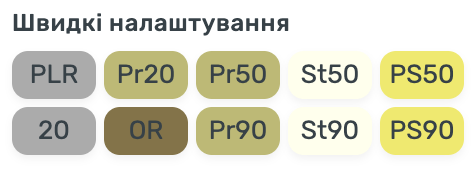
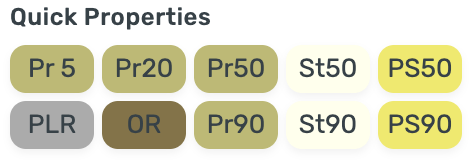
Changed button's preset

diff --git a/WME-E95.user.js b/WME-E95.user.js
@@ -91,23 +91,26 @@
   //   e.g. flags.tunnel | flags.headlights
   const FLAGS = {
     tunnel: 0b00000001,
-    // ???     : 0b00000010,
-    // ???     : 0b00000100,
-    // ???     : 0b00001000,
+    // ???
+    // a     : 0b00000010,
+    // b     : 0b00000100,
+    // c     : 0b00001000,
     unpaved: 0b00010000,
     headlights: 0b00100000,
   }
   // Buttons:
   //   title - for buttons
   //   shortcut - keys for shortcuts, by default is Alt + (1..9)
-  //   detectCity - try to detect city name by closures segments
-  //   clearCity - clear city name
+  //   options:
+  //    - detectCity - try to detect the city name by closures segments
+  //    - clearCity - clear the city name
+  //    - clearStreet - clear the street name
   //   attributes - native settings for model object
   // TODO:
   //   – check permissions for user level lower than 2
   const BUTTONS = {
     A: {
-      title: 'PLR',
+      title: 'Pr 5',
       shortcut: 'A+1',
       options: {
         detectCity: true,
@@ -118,7 +121,7 @@
         revMaxSpeed: 5,
         fwdMaxSpeedUnverified: false,
         revMaxSpeedUnverified: false,
-        roadType: TYPES.parking,
+        roadType: TYPES.private,
         lockRank: 0,
       }
     },
@@ -187,15 +190,15 @@
       }
     },
     F: {
-      title: '20',
+      title: 'PLR',
       shortcut: 'A+6',
       options: {
         detectCity: true,
       },
       attributes: {
         flags: 0,
-        fwdMaxSpeed: 20,
-        revMaxSpeed: 20,
+        fwdMaxSpeed: 5,
+        revMaxSpeed: 5,
         fwdMaxSpeedUnverified: false,
         revMaxSpeedUnverified: false,
         roadType: TYPES.parking,
@@ -207,7 +210,7 @@
       shortcut: 'A+7',
       options: {
         clearCity: true,
-        clearStreet: true,
+        clearStreet: false,
       },
       attributes: {
         flags: 0,
@@ -414,7 +417,7 @@
       }
       // set city flag
       address.emptyCity = (address.cityName === null)
-      // set street name
+      // set street flag
       address.emptyStreet = (address.streetName === null) || (address.streetName === '')
       // update segment's address
       W.model.actionManager.add(
@@ -426,7 +429,7 @@
           }
         )
       )
-      // keep the current lock level if it is higher than in the options
+      // keep the current lock level if it is higher than in the config's attributes
       if (segment.attributes.lockRank > attributes.lockRank) {
         attributes.lockRank = segment.attributes.lockRank
       }
@@ -467,7 +470,7 @@
       // cities of the connected segments
       let cities = connected.map(id => W.model.segments.getObjectById(id).getAddress().getCity())
       cities = cities.filter(city => city) // filter segments w/out city
-      cities = cities.map(city => city.getName()) // get cities name
+      cities = cities.map(city => city.getName()) // extract cities name
       cities = cities.filter(city => city) // filter empty city name
 
       if (cities.length) {
@@ -515,10 +518,7 @@
     }
   }
 
-  $(document)
-    .on('bootstrap.wme', ready)
-
-  function ready () {
+  $(document).on('bootstrap.wme', () => {
     // Require scripts
     WazeActionUpdateObject = require('Waze/Action/UpdateObject')
     WazeActionUpdateFeatureAddress = require('Waze/Action/UpdateFeatureAddress')
@@ -526,5 +526,5 @@
     new E95(NAME, BUTTONS, CONFIGS)
 
     WMEUIShortcut.setGroupTitle(NAME, I18n.t(NAME).title)
-  }
+  })
 })()

diff --git a/README.md b/README.md
@@ -18,9 +18,9 @@ Ukrainian manual: https://wazeopedia.waze.com/wiki/Ukraine/Scripts/WME_E95
   <th>Lock</th>
 </tr>
 <tr>
-<td align='center'><strong>PLR</strong></td>
+<td align='center'><strong>Pr 5</strong></td>
 <td align='center'><code>Alt</code>+<code>1</code></td>
-<td align='center'>parking</td>
+<td align='center'>private</td>
 <td align='center'>5 km/h</td>
 <td align='center'>auto</td>
 <td align='center'>1</td>
@@ -58,10 +58,10 @@ Ukrainian manual: https://wazeopedia.waze.com/wiki/Ukraine/Scripts/WME_E95
 <td align='center'>2</td>
 </tr>
 <tr>
-<td align='center'><strong>20</strong></td>
+<td align='center'><strong>PLR</strong></td>
 <td align='center'><code>Alt</code>+<code>6</code></td>
 <td align='center'>parking</td>
-<td align='center'>20 km/h</td>
+<td align='center'>5 km/h</td>
 <td align='center'>auto</td>
 <td align='center'>1</td>
 </tr>
